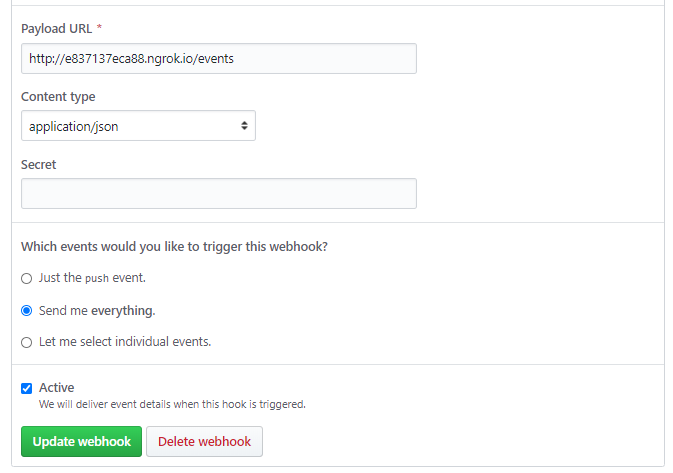
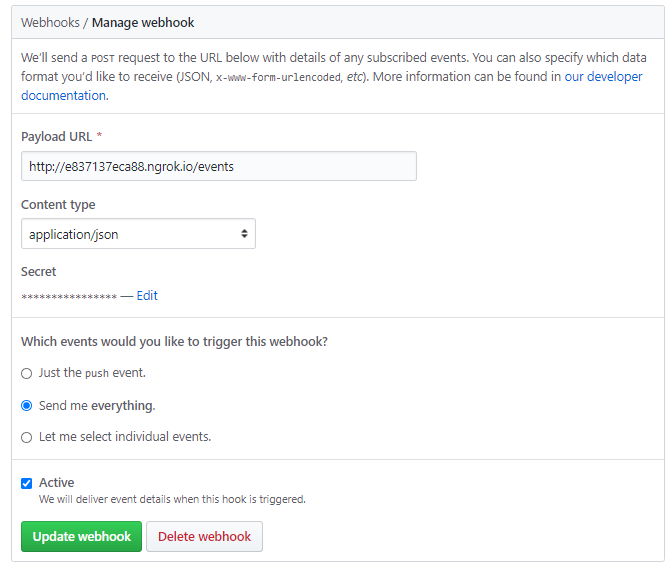
using the gem github_webhook

diff --git a/spec/requests/events_spec.rb b/spec/requests/events_spec.rb
@@ -3,21 +3,27 @@ require 'rails_helper'
 RSpec.describe "Events", type: :request do
 
   it "should be able to create a new event" do
-    post '/events', params: { issue: { number: 7 }, event: { action: 'edited' } }
-    expect(response).to have_http_status(201)
+    params = { issue: { number: 7 }, action: 'edited' }
+    signature = 'sha1=' + OpenSSL::HMAC.hexdigest(OpenSSL::Digest.new('sha1'), ENV['GITHUB_WEBHOOK_SECRET'], params.to_json)
+    headers = {
+      'X-GitHub-Event': 'issues',
+      'X-Hub-Signature': signature
+    }
+    post '/events', params: params, headers: headers, as: :json
+    expect(response).to have_http_status(:created)
   end
 
   it "should be able to list the event" do
     events = Event.all
     get "/events"
-    expect(response).to have_http_status(200)
+    expect(response).to have_http_status(:ok)
     expect(response.parsed_body).to match(events.as_json)
   end
 
   it "should be able to find events by number" do
-    event = Event.create(action: 'opened', number: 10000)
+    event = Event.create(action: 'opened', number: 7)
     get "/issues/#{event.number}/events"
-    expect(response).to have_http_status(200)
+    expect(response).to have_http_status(:ok)
   end
 
   it 'should be able generate errors when trying to search for an unregistered events by number' do

diff --git a/app/controllers/github_webhooks_controller.rb b/app/controllers/github_webhooks_controller.rb
@@ -1,0 +1,28 @@
+class GithubWebhooksController < ApplicationController
+  include GithubWebhook::Processor
+
+  def github_issues(payload)
+    @event = Event.new(action: payload["action"],
+                    number: payload["issue"]["number"])
+
+    if @event.save
+      render json: @event, status: :created
+    else
+      render json: @event.erros, status: :bad_request
+    end
+  end
+
+  def create
+    if self.respond_to?(event_method, true)
+      self.send event_method, json_body
+    else
+      raise NoMethodError.new("GithubWebhooksController##{event_method} not implemented")
+    end
+  end
+
+  private
+
+  def webhook_secret(payload)
+    ENV['GITHUB_WEBHOOK_SECRET']
+  end
+end

diff --git a/app/controllers/events_controller.rb b/app/controllers/events_controller.rb
@@ -18,19 +18,8 @@ class EventsController < ApplicationController
     end
   end
 
-  # POST /events
-  def create
-    @event = Event.new(number: params["issue"]["number"], 
-                        action: params["event"]["action"])
-
-    if @event.save
-      render json: @event, status: :created
-    else
-      render json: @planet.erros, status: :bad_request
-    end
-  end
-
   private
+
     def event_params
       params.require(:event).permit(:action, :number)
     end

diff --git a/config/routes.rb b/config/routes.rb
@@ -1,5 +1,5 @@
 Rails.application.routes.draw do
+  resource :github_webhooks, only: :create, defaults: { formats: :json }, path: '/events'
   get "/events", to:'events#index'
-  post "/events", to:'events#create'
   get "/issues/:number/events", to:'events#issues'
 end

diff --git a/README.md b/README.md
@@ -2,13 +2,15 @@
 
 Octo Events is an application that listens to Github Events via webhooks and expose by an api for later use.
 
+## Events Resource
+
 ### Events entity
 
 |Field|Type|Description|Rules|Default|
 |:---|:--:|:----------|:---:|:-----:|
-|`pk`|int|ID of a event|unique,   read only|-|
+|`id`|int|ID of a event|unique,   read only|-|
 |`action`|str|Action of a event|required|-|
-|`number`|str|Number of a event|required|-|
+|`number`|int|Number of a event|required|-|
 |`created_at`|datetime|Moment when event is created|read only|-|
 |`updated_at`|datetime|Moment when event is updated|read only|-|
 
@@ -20,7 +22,7 @@ Octo Events is an application that listens to Github Events via webhooks and exp
 |`/issues/:number/events`|`GET`|200|Get a event object|
 |`/events`|`POST`|201|Create a event|
 
-### Testing specification
+## Testing specification
 
 - **`should be able to create a new event`**: application must allow a event to be created and return a json with the created project.
 
@@ -32,7 +34,7 @@ Octo Events is an application that listens to Github Events via webhooks and exp
 
 ![alt text](imgs/test.png)
 
-### Local use
+## Local use
 
 * Install the gem
 
@@ -63,9 +65,16 @@ rails s
 ```sh
 rspec spec
 ```
-### Config ngrok and Webhooks
 
-* Install (https://ngrok.com/)
+## Gem used
+
+* gem 'github_webhook', '~> 1.1'
+* gem 'rspec-rails', '~> 4.0.0'
+* gem 'dotenv-rails'
+
+## Config ngrok and Webhooks
+
+* Install ngrok (https://ngrok.com/)
 
 * Start a HTTP tunnel forwarding to your local port 3000
 
